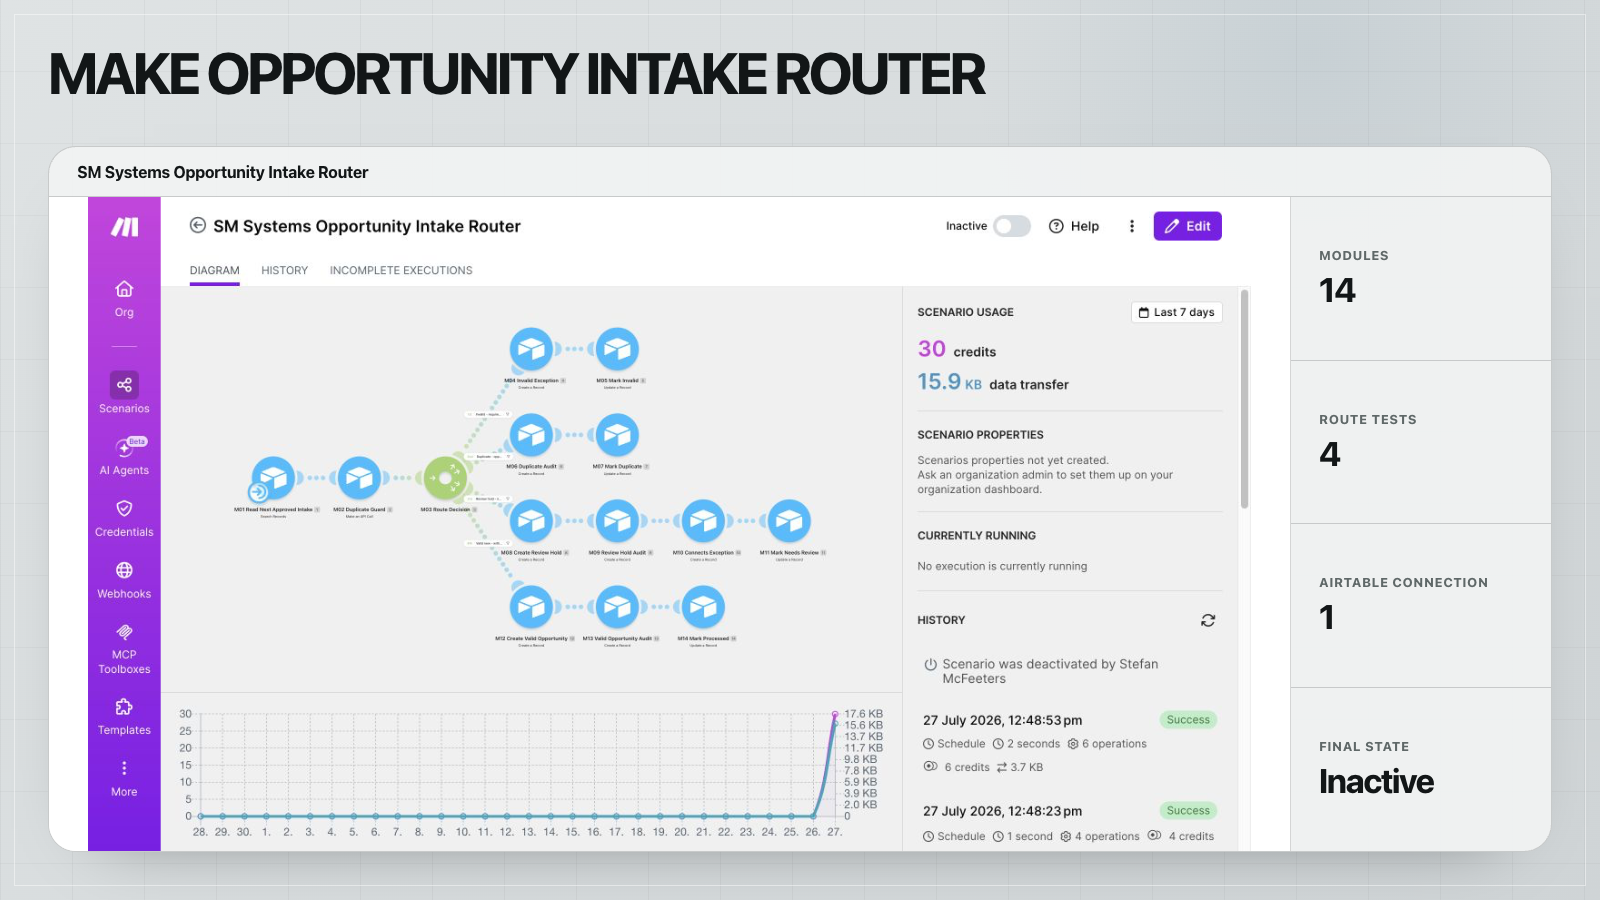
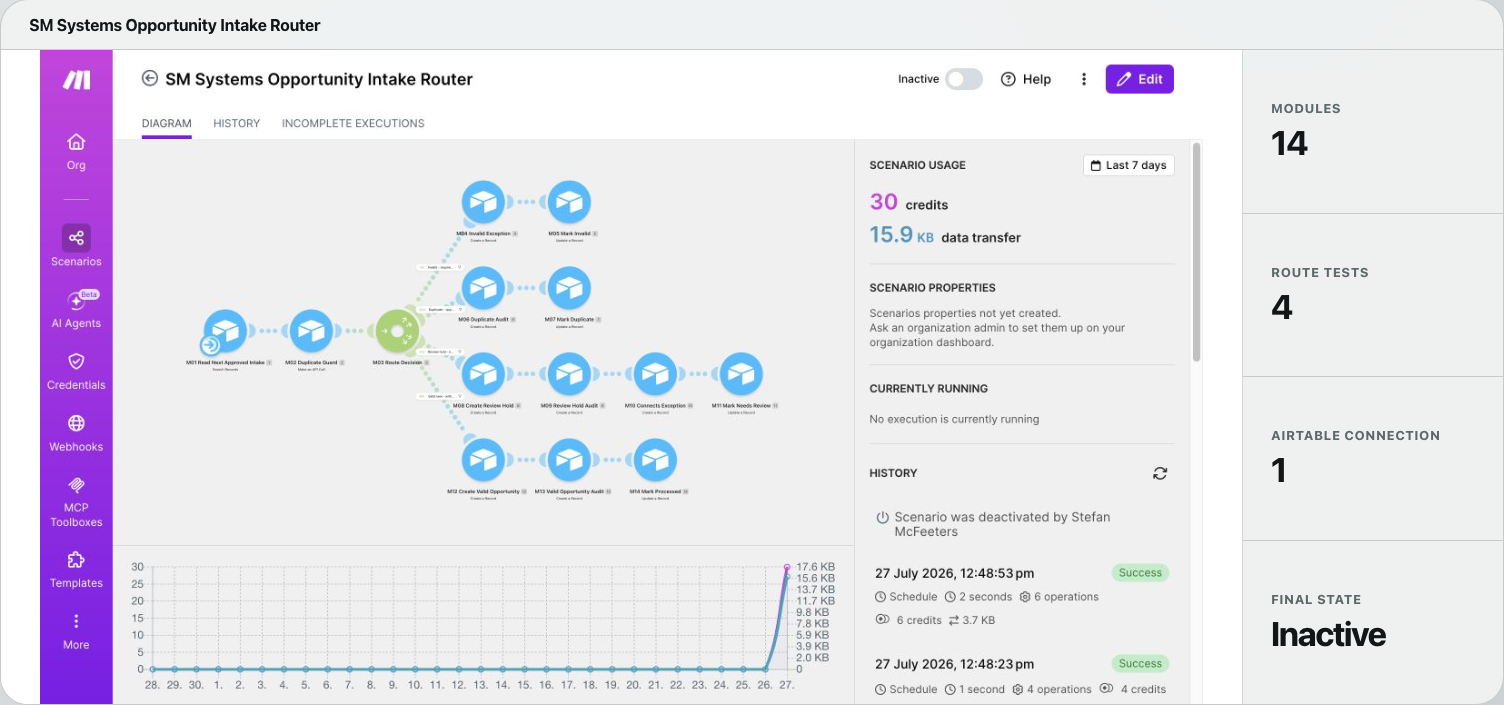
Expand portfolio proof images

diff --git a/content/proof.ts b/content/proof.ts
@@ -179,30 +179,40 @@ export const proofItems: ProofItem[] = [
           alt: 'Pipeline overview showing sent outreach, source lists, opportunities, delivered work, outreach mix, and source coverage.',
           caption:
             'Operating view bringing outreach, source coverage, opportunities, and delivered work into one pipeline.',
+          width: 1504,
+          height: 705,
         },
         {
           src: '/airtable-make/outreach-analytics.png',
           alt: 'Outreach analytics showing source coverage and manual follow-up controls.',
           caption:
             'Ledger-backed outreach coverage with clear source visibility and manual follow-up controls.',
+          width: 1504,
+          height: 705,
         },
         {
           src: '/airtable-make/airtable-opportunities.png',
           alt: 'Airtable opportunities view showing owner-approved records routed into decision-required and review-hold states.',
           caption:
             'Airtable opportunities view showing owner-approved records routed into decision and review states.',
+          width: 1504,
+          height: 705,
         },
         {
           src: '/airtable-make/delivery-handoff.png',
           alt: 'Delivered Precision Residential Construction website beside its Airtable project record and accepted delivery path.',
           caption:
             'Delivered website shown beside its Airtable project record, with accepted scope and criteria retained.',
+          width: 1504,
+          height: 771,
         },
         {
           src: '/airtable-make/make-router.png',
           alt: 'Opportunity intake router in Make showing the connected Airtable workflow, successful route tests, and inactive final state.',
           caption:
             'Make scenario showing the connected router, successful route tests, and inactive final state.',
+          width: 1504,
+          height: 705,
         },
       ],
     },
@@ -240,18 +250,24 @@ export const proofItems: ProofItem[] = [
           alt: 'Complete 16-node n8n service lead workflow from enquiry intake through validation, exception handling, and prepared handoff.',
           caption:
             'Complete 16-node path from enquiry intake through validation, exception handling, and prepared handoff.',
+          width: 1496,
+          height: 758,
         },
         {
           src: '/n8n-service-lead/validation-logic.png',
           alt: 'Native n8n validation logic for incomplete enquiries, duplicate control, manual review, and system exceptions.',
           caption:
             'Required details, duplicate control, manual review, and system exceptions are checked before handoff.',
+          width: 1496,
+          height: 722,
         },
         {
           src: '/n8n-service-lead/invalid-lead-output.png',
           alt: 'Native n8n input and output showing an incomplete enquiry held before handoff with validation errors recorded.',
           caption:
             'An incomplete enquiry is held with the missing contact method and consent errors recorded.',
+          width: 1242,
+          height: 699,
         },
       ],
     },
@@ -289,24 +305,24 @@ export const proofItems: ProofItem[] = [
           alt: 'HubSpot deal board showing the private SM Systems lead-to-deal pipeline and its seven controlled operating stages.',
           caption:
             'Seven-stage HubSpot pipeline configured and verified with controlled company, contact, and deal records.',
-          width: 1280,
-          height: 960,
+          width: 1149,
+          height: 648,
         },
         {
           src: '/hubspot-lead-to-deal/connected-crm-records.png',
           alt: 'HubSpot deal view showing the associated company and contact records for a controlled commissioning deal.',
           caption:
             "Controlled company, contact, and deal records linked and read back through HubSpot's native association model.",
-          width: 1280,
-          height: 960,
+          width: 1149,
+          height: 648,
         },
         {
           src: '/hubspot-lead-to-deal/auditable-stage-history.png',
           alt: 'HubSpot deal activity showing controlled stage movement from Audit Booked to Proposal Prepared.',
           caption:
             'Native activity history showing controlled movement from Audit Booked to Proposal Prepared.',
-          width: 1280,
-          height: 960,
+          width: 1116,
+          height: 803,
         },
       ],
     },

diff --git a/app/work/airtable-make-opportunity-pipeline/page.tsx b/app/work/airtable-make-opportunity-pipeline/page.tsx
@@ -10,32 +10,32 @@ const screenshotLayout = [
   {
     src: '/airtable-make/pipeline-overview.png',
     title: 'Implemented outreach and opportunity pipeline',
-    width: 1600,
-    height: 900,
+    width: 1504,
+    height: 705,
   },
   {
     src: '/airtable-make/outreach-analytics.png',
     title: 'Outreach ledger and follow-up controls',
-    width: 1600,
-    height: 900,
+    width: 1504,
+    height: 705,
   },
   {
     src: '/airtable-make/airtable-opportunities.png',
     title: 'Airtable opportunity routing',
-    width: 1600,
-    height: 900,
+    width: 1504,
+    height: 705,
   },
   {
     src: '/airtable-make/delivery-handoff.png',
     title: 'Delivered project handoff',
-    width: 1600,
-    height: 900,
+    width: 1504,
+    height: 771,
   },
   {
     src: '/airtable-make/make-router.png',
     title: 'Make opportunity intake router',
-    width: 1600,
-    height: 900,
+    width: 1504,
+    height: 705,
   },
 ];
 

diff --git a/components/proof/screenshot-carousel.tsx b/components/proof/screenshot-carousel.tsx
@@ -55,6 +55,7 @@ export function ScreenshotCarousel({ screenshots }: ScreenshotCarouselProps) {
   }, [count, goPrev, goNext]);
 
   const current = screenshots[index];
+  const frame = screenshots[0];
 
   return (
     <div className="screenshot-carousel">
@@ -74,8 +75,8 @@ export function ScreenshotCarousel({ screenshots }: ScreenshotCarouselProps) {
           <span
             className="proof-screenshot-frame screenshot-carousel-frame"
             style={
-              current.width && current.height
-                ? { aspectRatio: `${current.width} / ${current.height}` }
+              frame.width && frame.height
+                ? { aspectRatio: `${frame.width} / ${frame.height}` }
                 : undefined
             }
           >

diff --git a/app/work/n8n-service-lead-routing/page.tsx b/app/work/n8n-service-lead-routing/page.tsx
@@ -10,20 +10,20 @@ const screenshotLayout = [
   {
     src: '/n8n-service-lead/workflow-overview.png',
     title: 'Service lead routing workflow',
-    width: 1600,
-    height: 900,
+    width: 1496,
+    height: 758,
   },
   {
     src: '/n8n-service-lead/validation-logic.png',
     title: 'Checks applied before handoff',
-    width: 1600,
-    height: 900,
+    width: 1496,
+    height: 722,
   },
   {
     src: '/n8n-service-lead/invalid-lead-output.png',
     title: 'Incomplete enquiry held safely',
-    width: 1600,
-    height: 900,
+    width: 1242,
+    height: 699,
   },
 ];
 

diff --git a/app/work/hubspot-lead-to-deal-crm/page.tsx b/app/work/hubspot-lead-to-deal-crm/page.tsx
@@ -9,18 +9,18 @@ const hubspotLeadToDeal = proofItems.find(
 const screenshotLayout = [
   {
     src: '/hubspot-lead-to-deal/lead-to-deal-pipeline.png',
-    width: 1280,
-    height: 960,
+    width: 1149,
+    height: 648,
   },
   {
     src: '/hubspot-lead-to-deal/connected-crm-records.png',
-    width: 1280,
-    height: 960,
+    width: 1149,
+    height: 648,
   },
   {
     src: '/hubspot-lead-to-deal/auditable-stage-history.png',
-    width: 1280,
-    height: 960,
+    width: 1116,
+    height: 803,
   },
 ];
 
